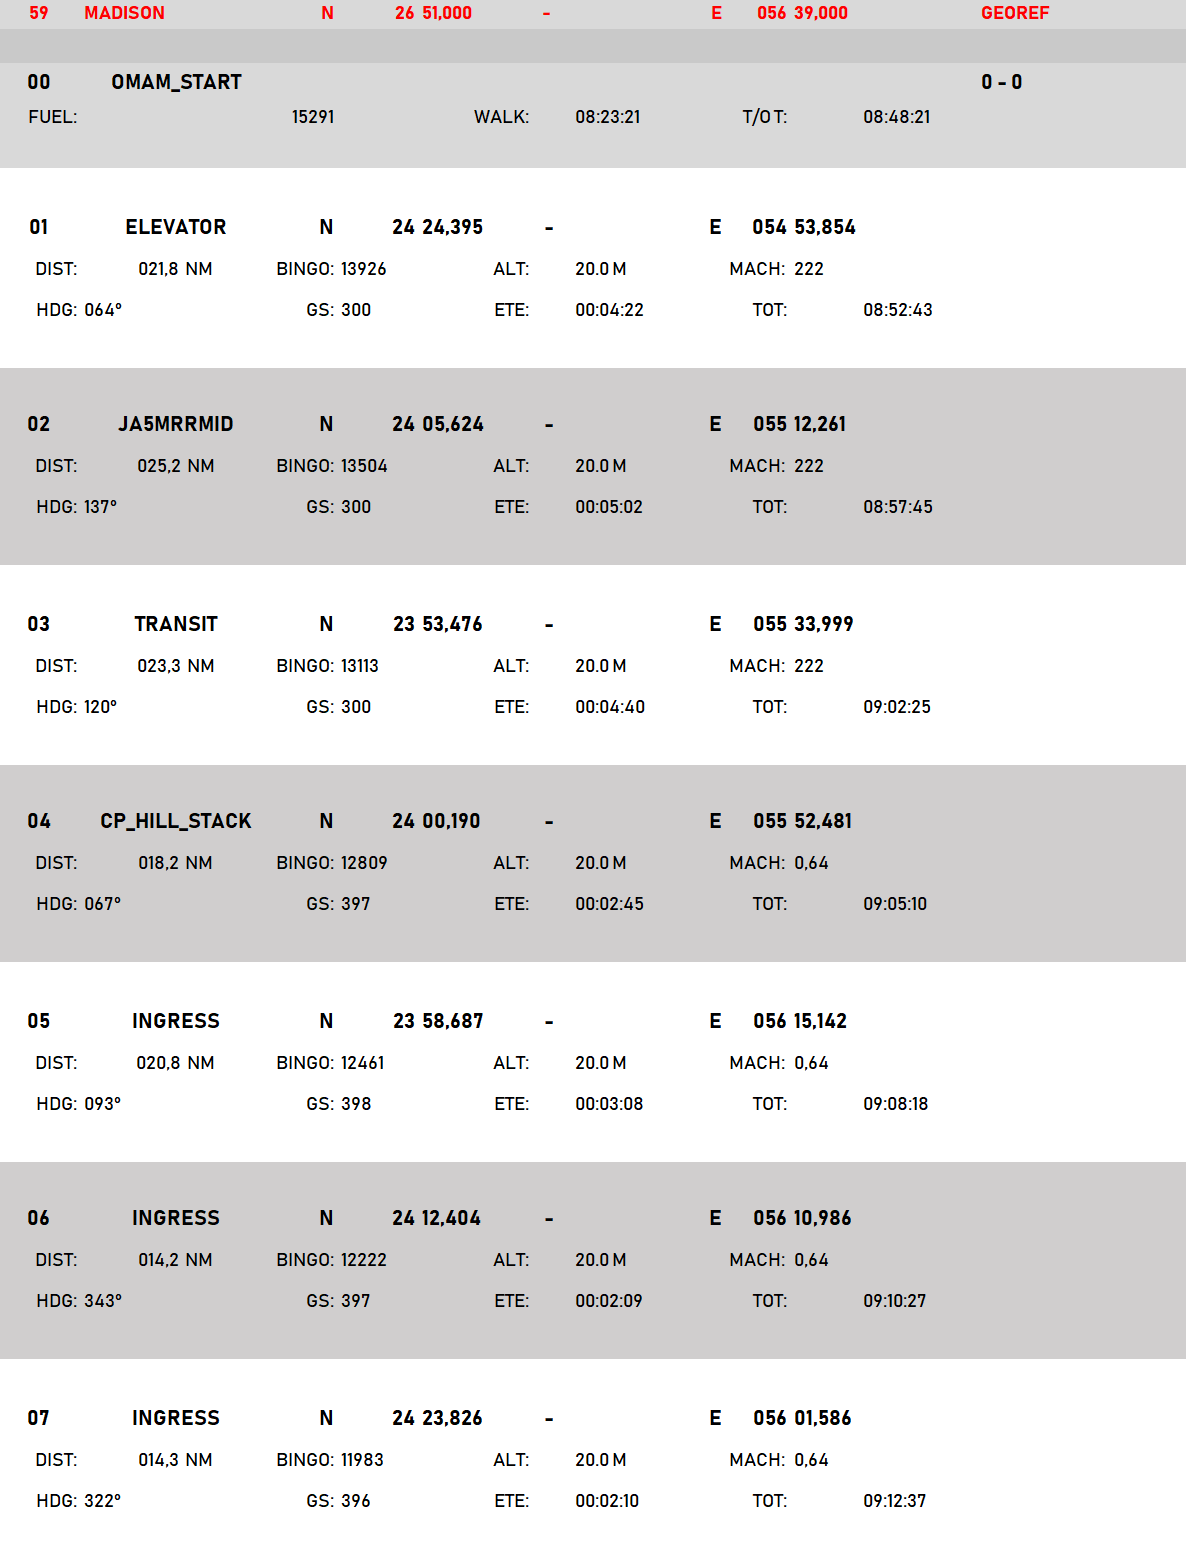
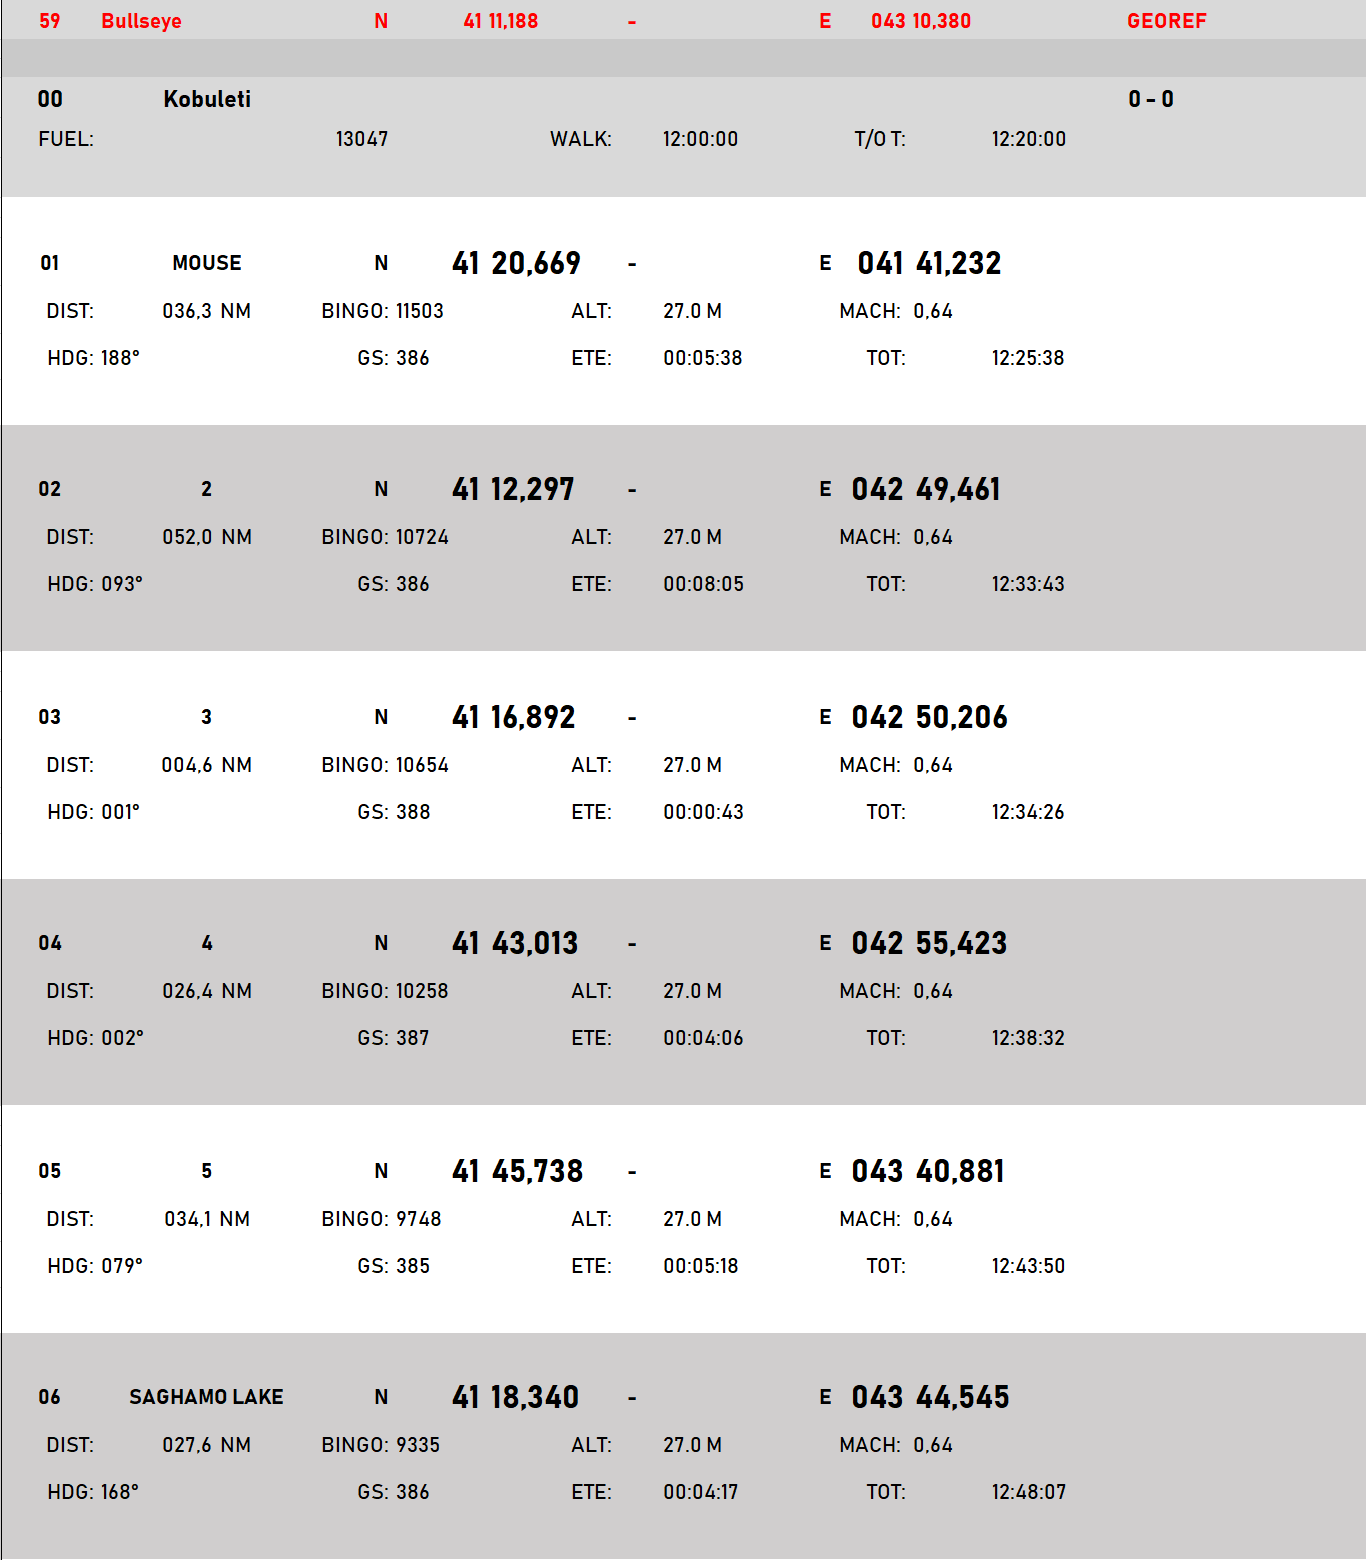
190801 JEDI 41

diff --git a/index.md b/index.md
@@ -2,10 +2,13 @@
 - | - | -
 [CV-OPs](/CVOPS/cvops.md) | [FLIP GULF](https://www.dropbox.com/s/sp91zf63rx0esao/FLIP_GULFR2_EC1.pdf?dl=0) | [FLIP CAUCASUS](https://www.dropbox.com/s/ppiqy9ba7i8h8op/FLIP_CAUR_EC1.pdf?dl=0)
 
-## MINKEN 2 - CASUAL99
+## JEDI 4 - TR3101
 
 Flight Lead: DAVID  
-WM2: KIM  
+WM2: JAEGER  
+Element Lead:   
+WM4:   
+TACAN: 53 - 116Y  
 
 ## FLIGHTPLAN
 0
@@ -14,17 +17,63 @@ WM2: KIM
 
 left | right
 ----- | -----
-S1 - AN/ASQ-T50 | S9 - CAP-9M
-S2 - 2xMK-82 LD | S8 - MK-82 LD
-S3 - PFU-8A | S7 - PFU-8A
-S4 - - | S6 - -
-S5 - - | GUN - FULL CM
+S1 - AIM-9X | S9 - AIM-9X
+S2 - GBU-38 | S8 - GBU-38
+S3 - 2x GBU-12 | S7 - PFU-8A
+S4 - AIM7MH | S6 - AIM7MH
+S5 - AN/AAQ-28 | GUN - FULL CM
 CHAFF - 50 | FLARE - 35
-FUEL - 1 | WEIGHT: 44057
+FUEL - 1 | WEIGHT: 43919
 
 
 
 ## STEERPOINTS
+###	03	3	N	41	16,892	  -  	E	042	50,206			
+#####	DIST:	004,6  NM	BINGO:	10654	ALT:		27.0 M	MACH:	0,64			
+#####	HDG:	001°	GS:	388	ETE:		00:00:43	TOT:		12:34:26		
+												
+												
+---  												
+###	04	4	N	41	43,013	  -  	E	042	55,423			
+#####	DIST:	026,4  NM	BINGO:	10258	ALT:		27.0 M	MACH:	0,64			
+#####	HDG:	002°	GS:	387	ETE:		00:04:06	TOT:		12:38:32		
+												
+												
+---  												
+###	05	5	N	41	45,738	  -  	E	043	40,881			
+#####	DIST:	034,1  NM	BINGO:	9748	ALT:		27.0 M	MACH:	0,64			
+#####	HDG:	079°	GS:	385	ETE:		00:05:18	TOT:		12:43:50		
+												
+												
+---  												
+###	06	SAGHAMO LAKE	N	41	18,340	  -  	E	043	44,545			
+#####	DIST:	027,6  NM	BINGO:	9335	ALT:		27.0 M	MACH:	0,64			
+#####	HDG:	168°	GS:	386	ETE:		00:04:17	TOT:		12:48:07		
+												
+												
+---  												
+###	07	BLUE_BULLS	N	41	11,188	  -  	E	043	10,380			
+#####	DIST:	026,7  NM	BINGO:	8935	ALT:		27.0 M	MACH:	0,64			
+#####	HDG:	249°	GS:	387	ETE:		00:04:08	TOT:		12:52:15		
+												
+												
+---  												
+###	08	8	N	41	12,241	  -  	E	042	49,461			
+#####	DIST:	015,8  NM	BINGO:	8698	ALT:		27.0 M	MACH:	0,64			
+#####	HDG:	268°	GS:	384	ETE:		00:02:28	TOT:		12:54:43		
+												
+												
+---  												
+###	09	MOUSE	N	41	20,669	  -  	E	041	41,232			
+#####	DIST:	052,0  NM	BINGO:	7919	ALT:		27.0 M	MACH:	0,64			
+#####	HDG:	274°	GS:	387	ETE:		00:08:04	TOT:		13:02:47		
+												
+												
+---  												
+###	10	Kutaisi	N	42	10,733	  -  	E	042	29,733			
+#####	DIST:	061,8  NM	BINGO:	6557	ALT:		1.5 A	MACH:	0,64			
+#####	HDG:	029°	GS:	425	ETE:		00:08:44	TOT:		13:11:31		
+												
 
 
 ![MDC1](MDC10.PNG)
